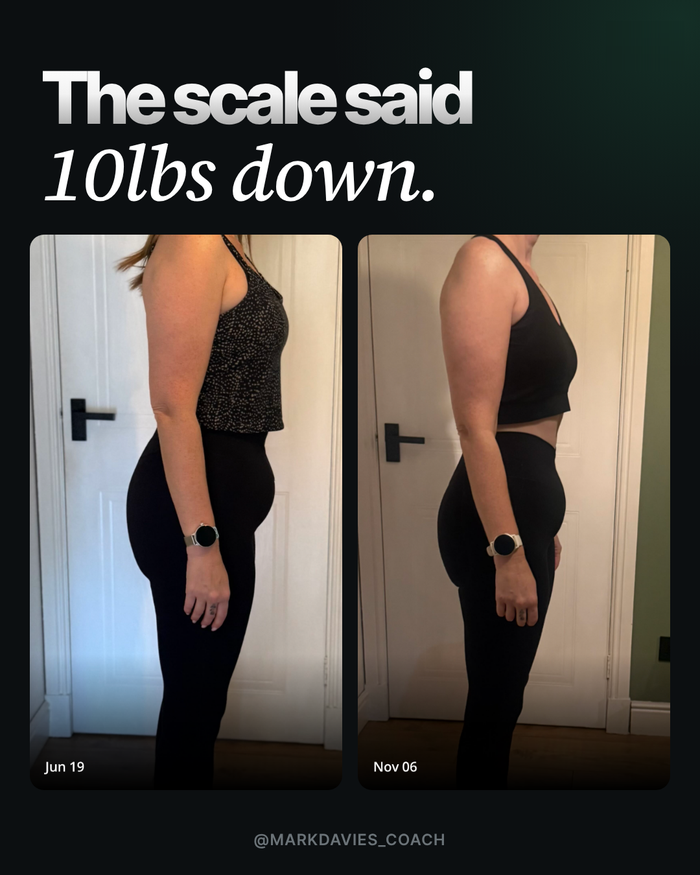
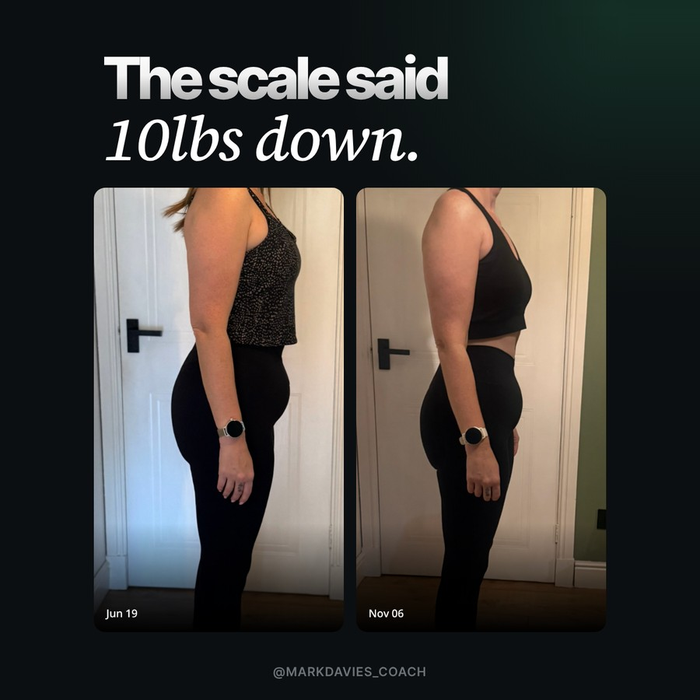
image resize

diff --git a/invite/config.js b/invite/config.js
@@ -3,15 +3,15 @@ window.ZF_INVITES = {
   /* Paste your Apps Script web app URL between the quotes (ends in /exec) */
   api: 'https://script.google.com/macros/s/AKfycbxZ4uSZFDp7jWerISzfxDsa1BQ7xON2E-E_tjBh_j_zQWwwspxl27TWAhKpMxQa3H1X/exec',
   /* Transformation graphics for the Accelerator results strip.
-     Upload the images into the invite/results folder, then list the file names here, e.g. ['joe-bloggs.jpg', 'client-2.jpg'].
-     Leave it empty and that section stays hidden. */
+     Drop the images into the invite/results folder, then list the file names here.
+     IMPORTANT: images must be square (1:1). The strip crops anything that isn't.
+     Leave the list empty and that section stays hidden. */
   results: [
     'kaylee-before-after.png',
-    'kaylee-weight.png',
     'jess.png',
     'jayne.png',
-    'dan.png',
+    'caroline-adrian.png',
     'glyn.png',
-    'caroline-adrian.png'
+    'dan.png'
   ]
 };
